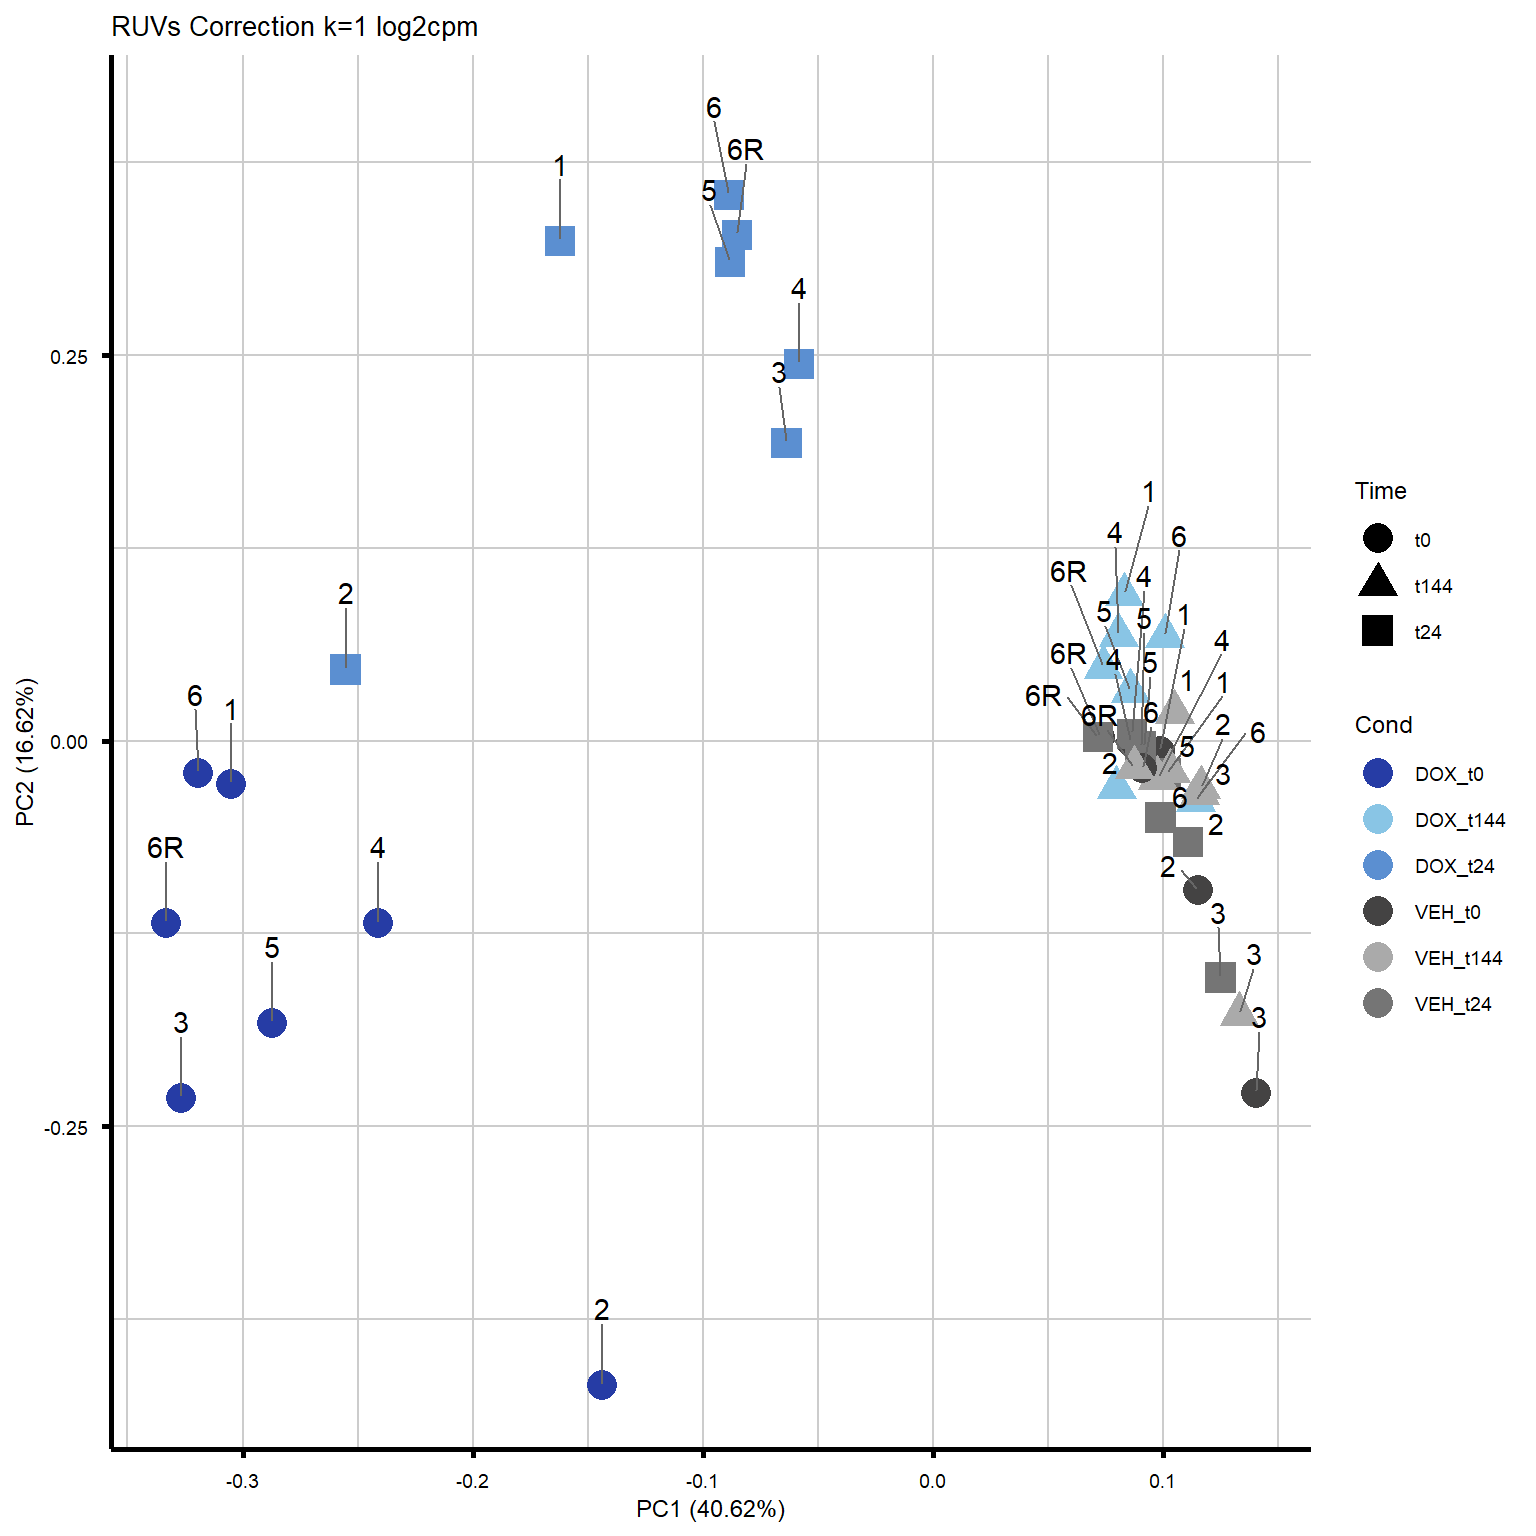
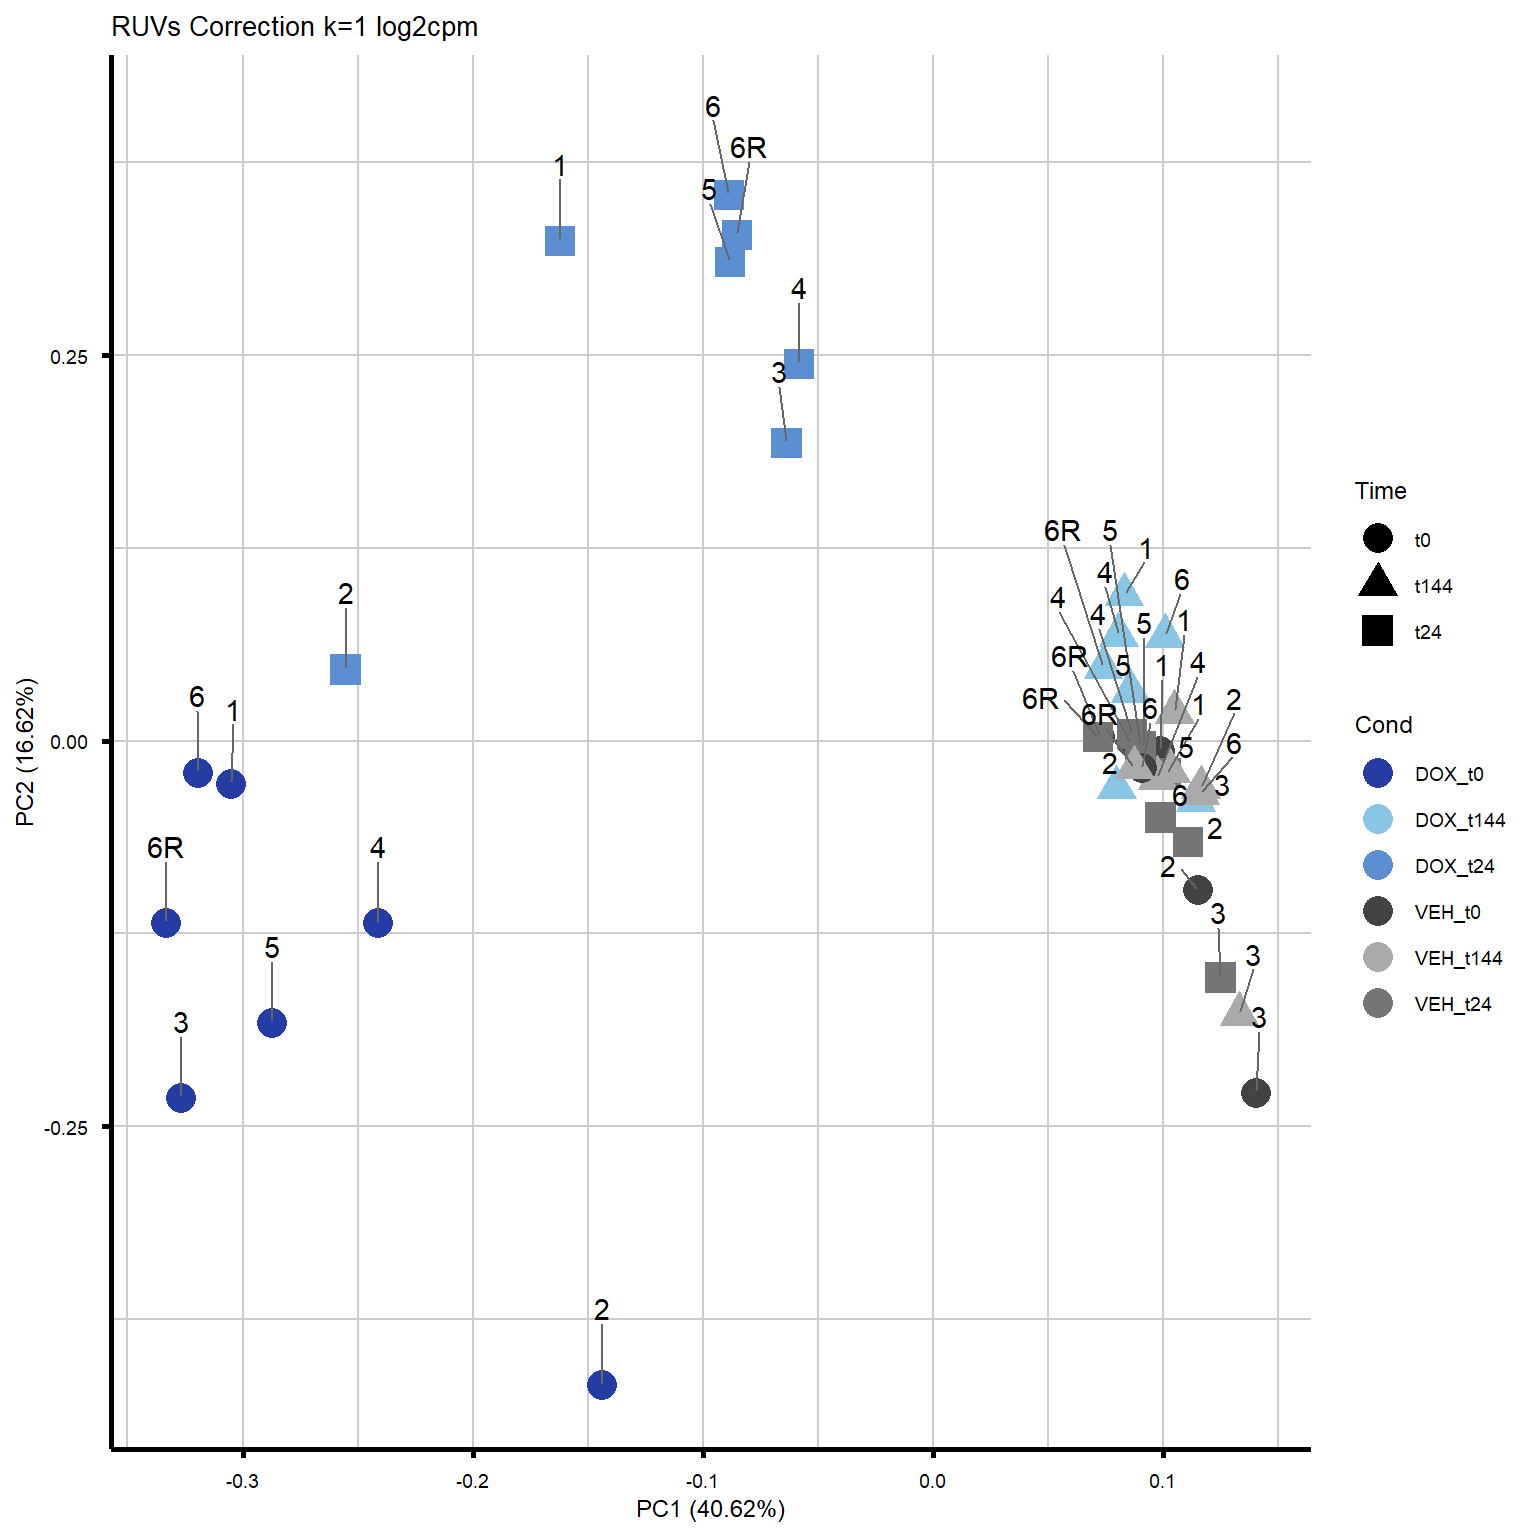
Build site.

Changed region(s): [[0.6562, 0.3125, 0.8125, 0.5625], [0.125, 0.4375, 0.1562, 0.5], [0.4688, 0.0938, 0.5, 0.125]]

diff --git a/DXR_website/docs/Figure2.html b/DXR_website/docs/Figure2.html
@@ -517,15 +517,15 @@ project makes it easier to run your code on other machines.</p>
 <div class="panel panel-default">
 <div class="panel-heading">
 <p class="panel-title">
-<a data-toggle="collapse" data-parent="#workflowr-checks" href="#strongRepositoryversionstrongahrefhttpsgithubcomemmapfortDXRProjecttree34943c6c688e4357bd3d13866576a5142d17a8b9targetblank34943c6a">
+<a data-toggle="collapse" data-parent="#workflowr-checks" href="#strongRepositoryversionstrongahrefhttpsgithubcomemmapfortDXRProjecttreead5369aa4871b13696bd958d45a57f43542d54f8targetblankad5369aa">
 <span class="glyphicon glyphicon-ok text-success"
 aria-hidden="true"></span> <strong>Repository version:</strong>
-<a href="https://github.com/emmapfort/DXR_Project/tree/34943c6c688e4357bd3d13866576a5142d17a8b9" target="_blank">34943c6</a>
+<a href="https://github.com/emmapfort/DXR_Project/tree/ad5369aa4871b13696bd958d45a57f43542d54f8" target="_blank">ad5369a</a>
 </a>
 </p>
 </div>
 <div
[2 lines of base64/hex data omitted]
 class="panel-collapse collapse">
 <div class="panel-body">
 <p>
@@ -535,7 +535,7 @@ reproducibility.
 </p>
 <p>
 The results in this page were generated with repository version
-<a href="https://github.com/emmapfort/DXR_Project/tree/34943c6c688e4357bd3d13866576a5142d17a8b9" target="_blank">34943c6</a>.
+<a href="https://github.com/emmapfort/DXR_Project/tree/ad5369aa4871b13696bd958d45a57f43542d54f8" target="_blank">ad5369a</a>.
 See the <em>Past versions</em> tab to see a history of the changes made
 to the R Markdown and HTML files.
 </p>
@@ -666,15 +666,6 @@ Ignored files:
     Ignored:    data/top.table_V.D24_dox.RDS
     Ignored:    data/top.table_V.D24r_dox.RDS
 
-Untracked files:
-    Untracked:  DXR_website/data/
-
-Unstaged changes:
-    Modified:   DXR_website/.gitignore
-    Modified:   analysis/DXR_Project_Analysis.Rmd
-    Modified:   analysis/Figure2.Rmd
-    Modified:   docs/Figure2.html
-
 </code></pre>
 <p>
 Note that any generated files, e.g. HTML, png, CSS, etc., are not
@@ -718,6 +709,57 @@ Message
 </tr>
 </thead>
 <tbody>
+<tr>
+<td>
+Rmd
+</td>
+<td>
+<a href="https://github.com/emmapfort/DXR_Project/blob/ad5369aa4871b13696bd958d45a57f43542d54f8/DXR_website/analysis/Figure2.Rmd" target="_blank">ad5369a</a>
+</td>
+<td>
+emmapfort
+</td>
+<td>
+2026-03-18
+</td>
+<td>
+updated
+</td>
+</tr>
+<tr>
+<td>
+Rmd
+</td>
+<td>
+<a href="https://github.com/emmapfort/DXR_Project/blob/fb677c61551fc9eb7a6d89832049d4d905ec0734/DXR_website/analysis/Figure2.Rmd" target="_blank">fb677c6</a>
+</td>
+<td>
+emmapfort
+</td>
+<td>
+2026-03-18
+</td>
+<td>
+updated website with revisions EMP
+</td>
+</tr>
+<tr>
+<td>
+html
+</td>
+<td>
+<a href="https://rawcdn.githack.com/emmapfort/DXR_Project/b1b2cefbe75e9b3b813efa627c8a848459e256f0/DXR_website/docs/Figure2.html" target="_blank">b1b2cef</a>
+</td>
+<td>
+emmapfort
+</td>
+<td>
+2026-03-18
+</td>
+<td>
+Build site.
+</td>
+</tr>
 <tr>
 <td>
 Rmd
@@ -1132,6 +1174,17 @@ Date
 <tbody>
 <tr>
 <td>
+<a href="https://github.com/emmapfort/DXR_Project/blob/b1b2cefbe75e9b3b813efa627c8a848459e256f0/DXR_website/docs/figure/Figure2.Rmd/Figure 2A PCA Plot-1.png" target="_blank">b1b2cef</a>
+</td>
+<td>
+emmapfort
+</td>
+<td>
+2026-03-18
+</td>
+</tr>
+<tr>
+<td>
 <a href="https://github.com/emmapfort/DXR_Project/blob/f00cd650d7f0ee8fc8653ebe27230f51f474ca87/DXR_website/docs/figure/Figure2.Rmd/Figure 2A PCA Plot-1.png" target="_blank">f00cd65</a>
 </td>
 <td>
@@ -1267,6 +1320,17 @@ Date
 <tbody>
 <tr>
 <td>
+<a href="https://github.com/emmapfort/DXR_Project/blob/b1b2cefbe75e9b3b813efa627c8a848459e256f0/DXR_website/docs/figure/Figure2.Rmd/DE RUVs k1-1.png" target="_blank">b1b2cef</a>
+</td>
+<td>
+emmapfort
+</td>
+<td>
+2026-03-18
+</td>
+</tr>
+<tr>
+<td>
 <a href="https://github.com/emmapfort/DXR_Project/blob/a967d53371f438ab56075182aba23158c81b7c1b/DXR_website/docs/figure/Figure2.Rmd/DE RUVs k1-1.png" target="_blank">a967d53</a>
 </td>
 <td>
@@ -1323,6 +1387,17 @@ Date
 </tr>
 </thead>
 <tbody>
+<tr>
+<td>
+<a href="https://github.com/emmapfort/DXR_Project/blob/b1b2cefbe75e9b3b813efa627c8a848459e256f0/DXR_website/docs/figure/Figure2.Rmd/DE RUVs k1-2.png" target="_blank">b1b2cef</a>
+</td>
+<td>
+emmapfort
+</td>
+<td>
+2026-03-18
+</td>
+</tr>
 <tr>
 <td>
 <a href="https://github.com/emmapfort/DXR_Project/blob/a967d53371f438ab56075182aba23158c81b7c1b/DXR_website/docs/figure/Figure2.Rmd/DE RUVs k1-2.png" target="_blank">a967d53</a>
@@ -1874,6 +1949,17 @@ Date
 <tbody>
 <tr>
 <td>
+<a href="https://github.com/emmapfort/DXR_Project/blob/b1b2cefbe75e9b3b813efa627c8a848459e256f0/DXR_website/docs/figure/Figure2.Rmd/Proportion of DEGs-6.png" target="_blank">b1b2cef</a>
+</td>
+<td>
+emmapfort
+</td>
+<td>
+2026-03-18
+</td>
+</tr>
+<tr>
+<td>
 <a href="https://github.com/emmapfort/DXR_Project/blob/a967d53371f438ab56075182aba23158c81b7c1b/DXR_website/docs/figure/Figure2.Rmd/Proportion of DEGs-6.png" target="_blank">a967d53</a>
 </td>
 <td>
@@ -1951,6 +2037,17 @@ Date
 <tbody>
 <tr>
 <td>
+<a href="https://github.com/emmapfort/DXR_Project/blob/b1b2cefbe75e9b3b813efa627c8a848459e256f0/DXR_website/docs/figure/Figure2.Rmd/RUVs Overlap of DEGs-1.png" target="_blank">b1b2cef</a>
+</td>
+<td>
+emmapfort
+</td>
+<td>
+2026-03-18
+</td>
+</tr>
+<tr>
+<td>
 <a href="https://github.com/emmapfort/DXR_Project/blob/a967d53371f438ab56075182aba23158c81b7c1b/DXR_website/docs/figure/Figure2.Rmd/RUVs Overlap of DEGs-1.png" target="_blank">a967d53</a>
 </td>
 <td>
@@ -2016,6 +2113,23 @@ emmapfort
 </tbody>
 </table>
 </div>
+</div>
+<div id="figure-2c-revised" class="section level2">
+<h2>Figure 2C Revised</h2>
+<pre class="r"><code>venn_prop_RUV_rev &lt;- euler(list(
+  &quot;tx+0&quot; = DEG_t0_RUV,
+  &quot;tx+24&quot; = DEG_t24_RUV,
+  &quot;tx+144&quot; = DEG_t144_RUV
+),
+shape = &quot;ellipse&quot;)
+
+plot(venn_prop_RUV_rev,
+     fills = list(fill = c(&quot;#263CA5&quot;, &quot;#5B8FD1&quot;, &quot;#89C5E5&quot;), 
+                  alpha = 1),
+     labels = list(font = 4),
+     quantities = list(cex = 0.75),
+     main = &quot;&quot;)</code></pre>
+<p><img src="figure/Figure2.Rmd/revised%20fig2c-1.png" alt="" width="672" style="display: block; margin: auto;" /></p>
 </div>
 <div id="load-in-degs" class="section level2">
 <h2>Load in DEGs</h2>
@@ -2186,6 +2300,17 @@ Date
 <tbody>
 <tr>
 <td>
+<a href="https://github.com/emmapfort/DXR_Project/blob/b1b2cefbe75e9b3b813efa627c8a848459e256f0/DXR_website/docs/figure/Figure2.Rmd/Scatterplots Timepoint Comparisons-1.png" target="_blank">b1b2cef</a>
+</td>
+<td>
+emmapfort
+</td>
+<td>
+2026-03-18
+</td>
+</tr>
+<tr>
+<td>
 <a href="https://github.com/emmapfort/DXR_Project/blob/f00cd650d7f0ee8fc8653ebe27230f51f474ca87/DXR_website/docs/figure/Figure2.Rmd/Scatterplots Timepoint Comparisons-1.png" target="_blank">f00cd65</a>
 </td>
 <td>
@@ -2237,6 +2362,17 @@ Date
 <tbody>
 <tr>
 <td>
+<a href="https://github.com/emmapfort/DXR_Project/blob/b1b2cefbe75e9b3b813efa627c8a848459e256f0/DXR_website/docs/figure/Figure2.Rmd/Scatterplots Timepoint Comparisons-2.png" target="_blank">b1b2cef</a>
+</td>
+<td>
+emmapfort
+</td>
+<td>
+2026-03-18
+</td>
+</tr>
+<tr>
+<td>
 <a href="https://github.com/emmapfort/DXR_Project/blob/f00cd650d7f0ee8fc8653ebe27230f51f474ca87/DXR_website/docs/figure/Figure2.Rmd/Scatterplots Timepoint Comparisons-2.png" target="_blank">f00cd65</a>
 </td>
 <td>
@@ -2265,9 +2401,6 @@ emmapfort
 # ggsave(&quot;Fig2D_Scatterplot_fixedlims_EMP_251121.pdf&quot;, scatterplot_fig2d_wide, width = 8, height = 6, device = cairo_pdf, path = &quot;C:/Users/emmap/OneDrive/Desktop/DXR Manuscript Materials/Fig pdfs&quot;)
 
 # ggsave(&quot;Fig2D_Scatterplot_fixedlims_EMP_251121.png&quot;, scatterplot_fig2d_wide, width = 12, height = 4, dpi = 300, type = &quot;cairo&quot;, path = &quot;C:/Users/emmap/OneDrive/Desktop/DXR Manuscript Materials/Fig pdfs&quot;)</code></pre>
-</div>
-<div id="scatterplots-for-revisions---mean-cpm" class="section level1">
-<h1>Scatterplots for Revisions - mean CPM</h1>
 </div>
 <div id="supplementary-figure-4---volcano-plots-of-ruvs-degs"
 class="section level1">
@@ -2368,6 +2501,17 @@ Date
 <tbody>
 <tr>
 <td>
+<a href="https://github.com/emmapfort/DXR_Project/blob/b1b2cefbe75e9b3b813efa627c8a848459e256f0/DXR_website/docs/figure/Figure2.Rmd/Volcano Plots RUVs Corrected k1-1.png" target="_blank">b1b2cef</a>
+</td>
+<td>
+emmapfort
+</td>
+<td>
+2026-03-18
+</td>
+</tr>
+<tr>
+<td>
 <a href="https://github.com/emmapfort/DXR_Project/blob/f00cd650d7f0ee8fc8653ebe27230f51f474ca87/DXR_website/docs/figure/Figure2.Rmd/Volcano Plots RUVs Corrected k1-1.png" target="_blank">f00cd65</a>
 </td>
 <td>
@@ -2429,6 +2573,17 @@ Date
 <tbody>
 <tr>
 <td>
+<a href="https://github.com/emmapfort/DXR_Project/blob/b1b2cefbe75e9b3b813efa627c8a848459e256f0/DXR_website/docs/figure/Figure2.Rmd/Volcano Plots RUVs Corrected k1-2.png" target="_blank">b1b2cef</a>
+</td>
+<td>
+emmapfort
+</td>
+<td>
+2026-03-18
+</td>
+</tr>
+<tr>
+<td>
 <a href="https://github.com/emmapfort/DXR_Project/blob/f00cd650d7f0ee8fc8653ebe27230f51f474ca87/DXR_website/docs/figure/Figure2.Rmd/Volcano Plots RUVs Corrected k1-2.png" target="_blank">f00cd65</a>
 </td>
 <td>
@@ -2488,6 +2643,17 @@ Date
 </tr>
 </thead>
 <tbody>
+<tr>
+<td>
+<a href="https://github.com/emmapfort/DXR_Project/blob/b1b2cefbe75e9b3b813efa627c8a848459e256f0/DXR_website/docs/figure/Figure2.Rmd/Volcano Plots RUVs Corrected k1-3.png" target="_blank">b1b2cef</a>
+</td>
+<td>
+emmapfort
+</td>
+<td>
+2026-03-18
+</td>
+</tr>
 <tr>
 <td>
 <a href="https://github.com/emmapfort/DXR_Project/blob/f00cd650d7f0ee8fc8653ebe27230f51f474ca87/DXR_website/docs/figure/Figure2.Rmd/Volcano Plots RUVs Corrected k1-3.png" target="_blank">f00cd65</a>
